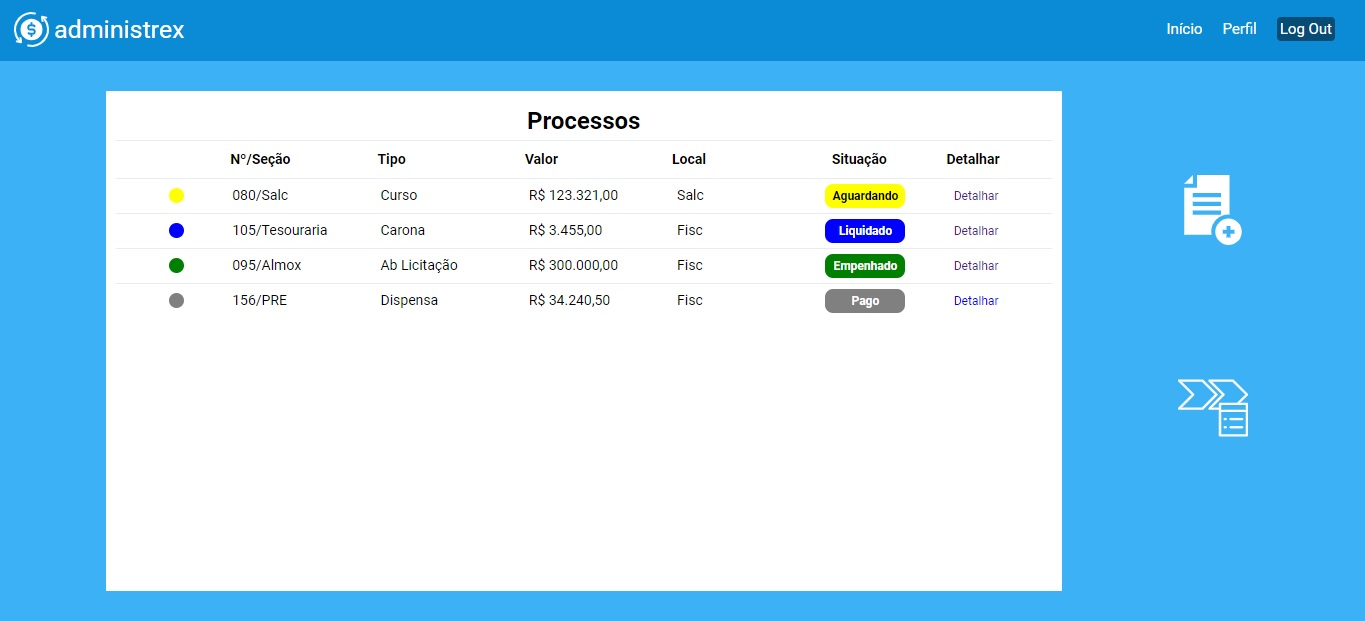
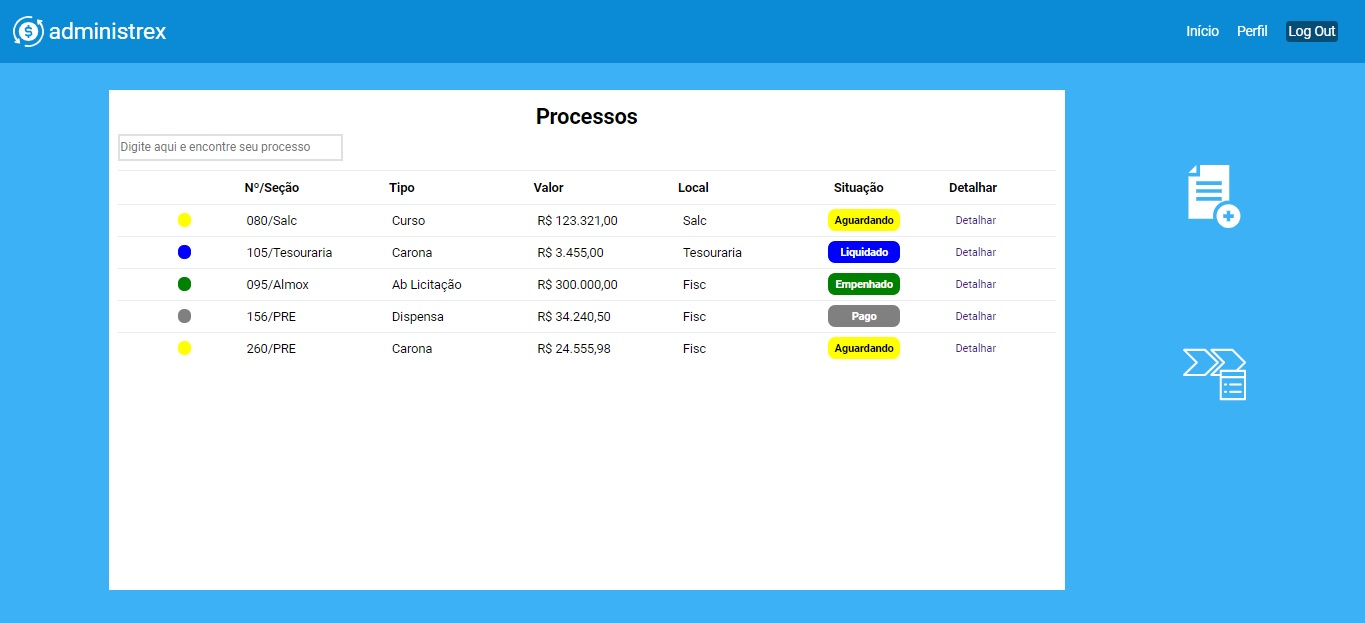
Inserção de filtro de busca na página de processos

diff --git a/pages/process.js b/pages/process.js
@@ -14,6 +14,7 @@ function Process() {
     const route = useRouter();
     const [requisitions, setRequisitions] = useState();
     const [error, setError] = useState();
+    const [requisitionsFiltered, setRequisitionsFiltered] = useState([]);
 
     useEffect(() => {
         const verifyAuthentication = isAuthenticated();
@@ -36,8 +37,23 @@ function Process() {
             }
         }
         getData();
-    });
+    }, []);
 
+    function handleFilter(event) {
+        const textFilter = event;
+        const textFilterModified = textFilter.toUpperCase();
+
+        const requisitionFiltered = requisitions.filter(requisition=> {
+            const concatData = `${requisition.number}/${requisition.section}/${requisition.status}/${requisition.type}/${requisition.locale}`;
+            const concatDataModified = concatData.toUpperCase();
+
+            if(concatDataModified.indexOf(textFilterModified) >= 0){
+                return requisition;
+            }            
+        });
+
+        setRequisitionsFiltered(requisitionFiltered);
+    }
 
     return (
         <ContainerBackground>
@@ -46,6 +62,13 @@ function Process() {
                 <ContainerWindow>
                     <h2>Processos</h2>
                     
+                    <input 
+                        type="text" 
+                        name="filter" 
+                        onChange={(event)=>handleFilter(event.target.value)}
+                        placeholder="Digite aqui e encontre seu processo"
+                    />
+
                     <ContainerLine style={{fontWeight: 'bold'}}>
                         <div style={{background: 'transparent'}}/>
                         <span>Nº/Seção</span>
@@ -56,7 +79,9 @@ function Process() {
                         <a href="" style={{color: '#000', fontSize: '14px', cursor: 'auto'}}>Detalhar</a>
                     </ContainerLine>
 
-                    {requisitions && requisitions.map(requisition => {
+                    {requisitionsFiltered.length > 0 ? (
+                        <>
+                            { requisitionsFiltered && requisitionsFiltered.map(requisition => {
                         {
                             if (requisition.status === 'Aguardando') {
                                 return (
@@ -118,6 +143,136 @@ function Process() {
                             }
                         }
                     })}
+                        </>
+                    ): (
+                        <>
+                        { requisitions && requisitions.map(requisition => {
+                        {
+                            if (requisition.status === 'Aguardando') {
+                                return (
+                                    <ContainerLine waiting key={requisition._id} id={requisition._id}>
+                                        <div />
+                                        <span>{`${requisition.number}/${requisition.section}`}</span>
+                                        <span>{requisition.type}</span>
+                                        <span>{`${formatNumber(requisition.value)}`}</span>
+                                        <span>{requisition.locale}</span>
+                                        <strong>{requisition.status}</strong>
+                                        <a href={`/requisitions/${requisition._id}`}>Detalhar</a>
+                                    </ContainerLine>
+                                )
+                            }
+                        }
+                        {
+                            if (requisition.status === 'Empenhado') {
+                                return (
+                                    <ContainerLine empenhado key={`${requisition.number}/${requisition.section}`}>
+                                        <div />
+                                        <span>{`${requisition.number}/${requisition.section}`}</span>
+                                        <span>{requisition.type}</span>
+                                        <span>{`${formatNumber(requisition.value)}`}</span>
+                                        <span>{requisition.locale}</span>
+                                        <strong>{requisition.status}</strong>
+                                        <a href={`/requisitions/${requisition._id}`}>Detalhar</a>
+                                    </ContainerLine>
+                                )
+                            }
+                        }
+                        {
+                            if (requisition.status === 'Liquidado') {
+                                return (
+                                    <ContainerLine liquidado key={`${requisition.number}/${requisition.section}`}>
+                                        <div />
+                                        <span>{`${requisition.number}/${requisition.section}`}</span>
+                                        <span>{requisition.type}</span>
+                                        <span>{`${formatNumber(requisition.value)}`}</span>
+                                        <span>{requisition.locale}</span>
+                                        <strong>{requisition.status}</strong>
+                                        <a href={`/requisitions/${requisition._id}`}>Detalhar</a>
+                                    </ContainerLine>
+                                )
+                            }
+                        }
+                        {
+                            if (requisition.status === 'Pago') {
+                                return (
+                                    <ContainerLine pago key={`${requisition.number}/${requisition.section}`}>
+                                        <div />
+                                        <span>{`${requisition.number}/${requisition.section}`}</span>
+                                        <span>{requisition.type}</span>
+                                        <span>{`${formatNumber(requisition.value)}`}</span>
+                                        <span>{requisition.locale}</span>
+                                        <strong>{requisition.status}</strong>
+                                        <a href={`/requisitions/${requisition._id}`}>Detalhar</a>
+                                    </ContainerLine>
+                                )
+                            }
+                        }
+                    })}
+                        </>
+                    )}
+
+                    {/* {requisitions && requisitions.map(requisition => {
+                        {
+                            if (requisition.status === 'Aguardando') {
+                                return (
+                                    <ContainerLine waiting key={requisition._id} id={requisition._id}>
+                                        <div />
+                                        <span>{`${requisition.number}/${requisition.section}`}</span>
+                                        <span>{requisition.type}</span>
+                                        <span>{`${formatNumber(requisition.value)}`}</span>
+                                        <span>{requisition.locale}</span>
+                                        <strong>{requisition.status}</strong>
+                                        <a href={`/requisitions/${requisition._id}`}>Detalhar</a>
+                                    </ContainerLine>
+                                )
+                            }
+                        }
+                        {
+                            if (requisition.status === 'Empenhado') {
+                                return (
+                                    <ContainerLine empenhado key={`${requisition.number}/${requisition.section}`}>
+                                        <div />
+                                        <span>{`${requisition.number}/${requisition.section}`}</span>
+                                        <span>{requisition.type}</span>
+                                        <span>{`${formatNumber(requisition.value)}`}</span>
+                                        <span>{requisition.locale}</span>
+                                        <strong>{requisition.status}</strong>
+                                        <a href={`/requisitions/${requisition._id}`}>Detalhar</a>
+                                    </ContainerLine>
+                                )
+                            }
+                        }
+                        {
+                            if (requisition.status === 'Liquidado') {
+                                return (
+                                    <ContainerLine liquidado key={`${requisition.number}/${requisition.section}`}>
+                                        <div />
+                                        <span>{`${requisition.number}/${requisition.section}`}</span>
+                                        <span>{requisition.type}</span>
+                                        <span>{`${formatNumber(requisition.value)}`}</span>
+                                        <span>{requisition.locale}</span>
+                                        <strong>{requisition.status}</strong>
+                                        <a href={`/requisitions/${requisition._id}`}>Detalhar</a>
+                                    </ContainerLine>
+                                )
+                            }
+                        }
+                        {
+                            if (requisition.status === 'Pago') {
+                                return (
+                                    <ContainerLine pago key={`${requisition.number}/${requisition.section}`}>
+                                        <div />
+                                        <span>{`${requisition.number}/${requisition.section}`}</span>
+                                        <span>{requisition.type}</span>
+                                        <span>{`${formatNumber(requisition.value)}`}</span>
+                                        <span>{requisition.locale}</span>
+                                        <strong>{requisition.status}</strong>
+                                        <a href={`/requisitions/${requisition._id}`}>Detalhar</a>
+                                    </ContainerLine>
+                                )
+                            }
+                        }
+                    })} */}
                 </ContainerWindow>
 
                 <AsideMenu />

diff --git a/components/ContainerWindow/index.js b/components/ContainerWindow/index.js
@@ -14,6 +14,18 @@ export const ContainerWindow = styled.div`
         margin: 5px;
     }
 
+    >input {
+        width: 250px;
+        height: 30px;
+        outline: none;
+        border: 3px solid #DDE1E4;
+        margin-bottom: 10px;
+
+        &:focus {
+            border: 3px solid #0B8BD5;
+        }
+    }
+
     .ancor-button {
             width: 270px;
             height: 30px;
